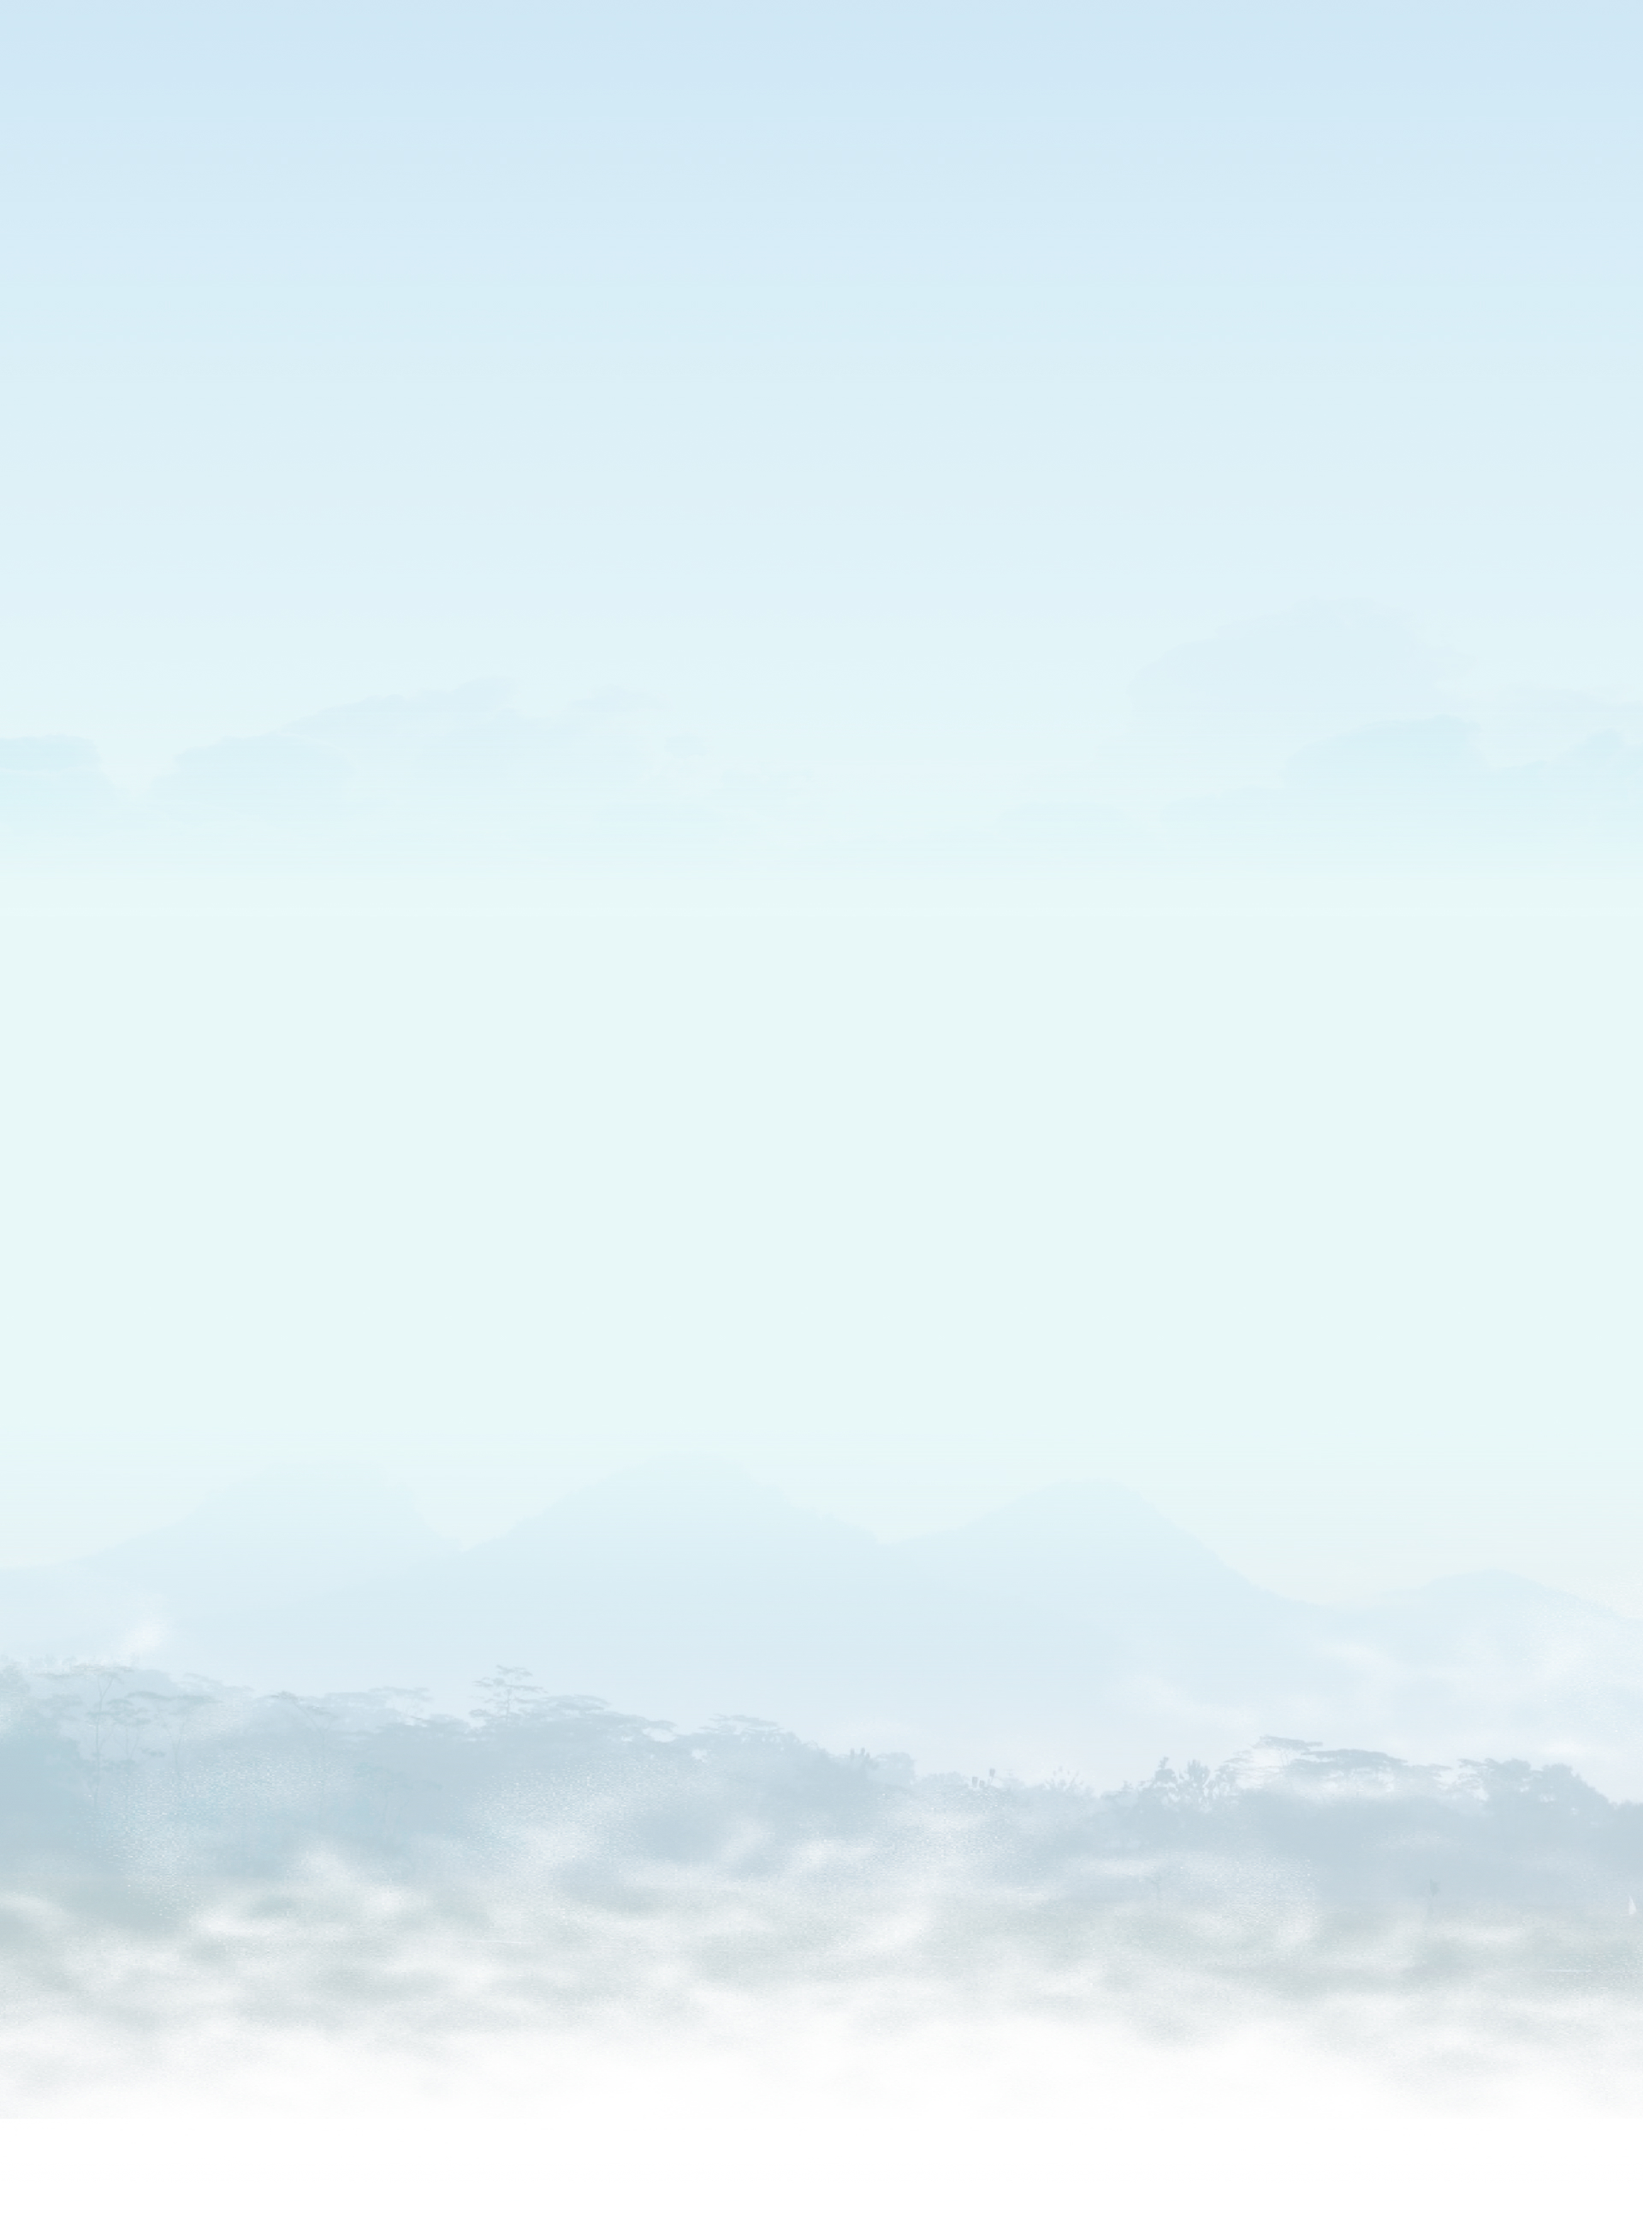
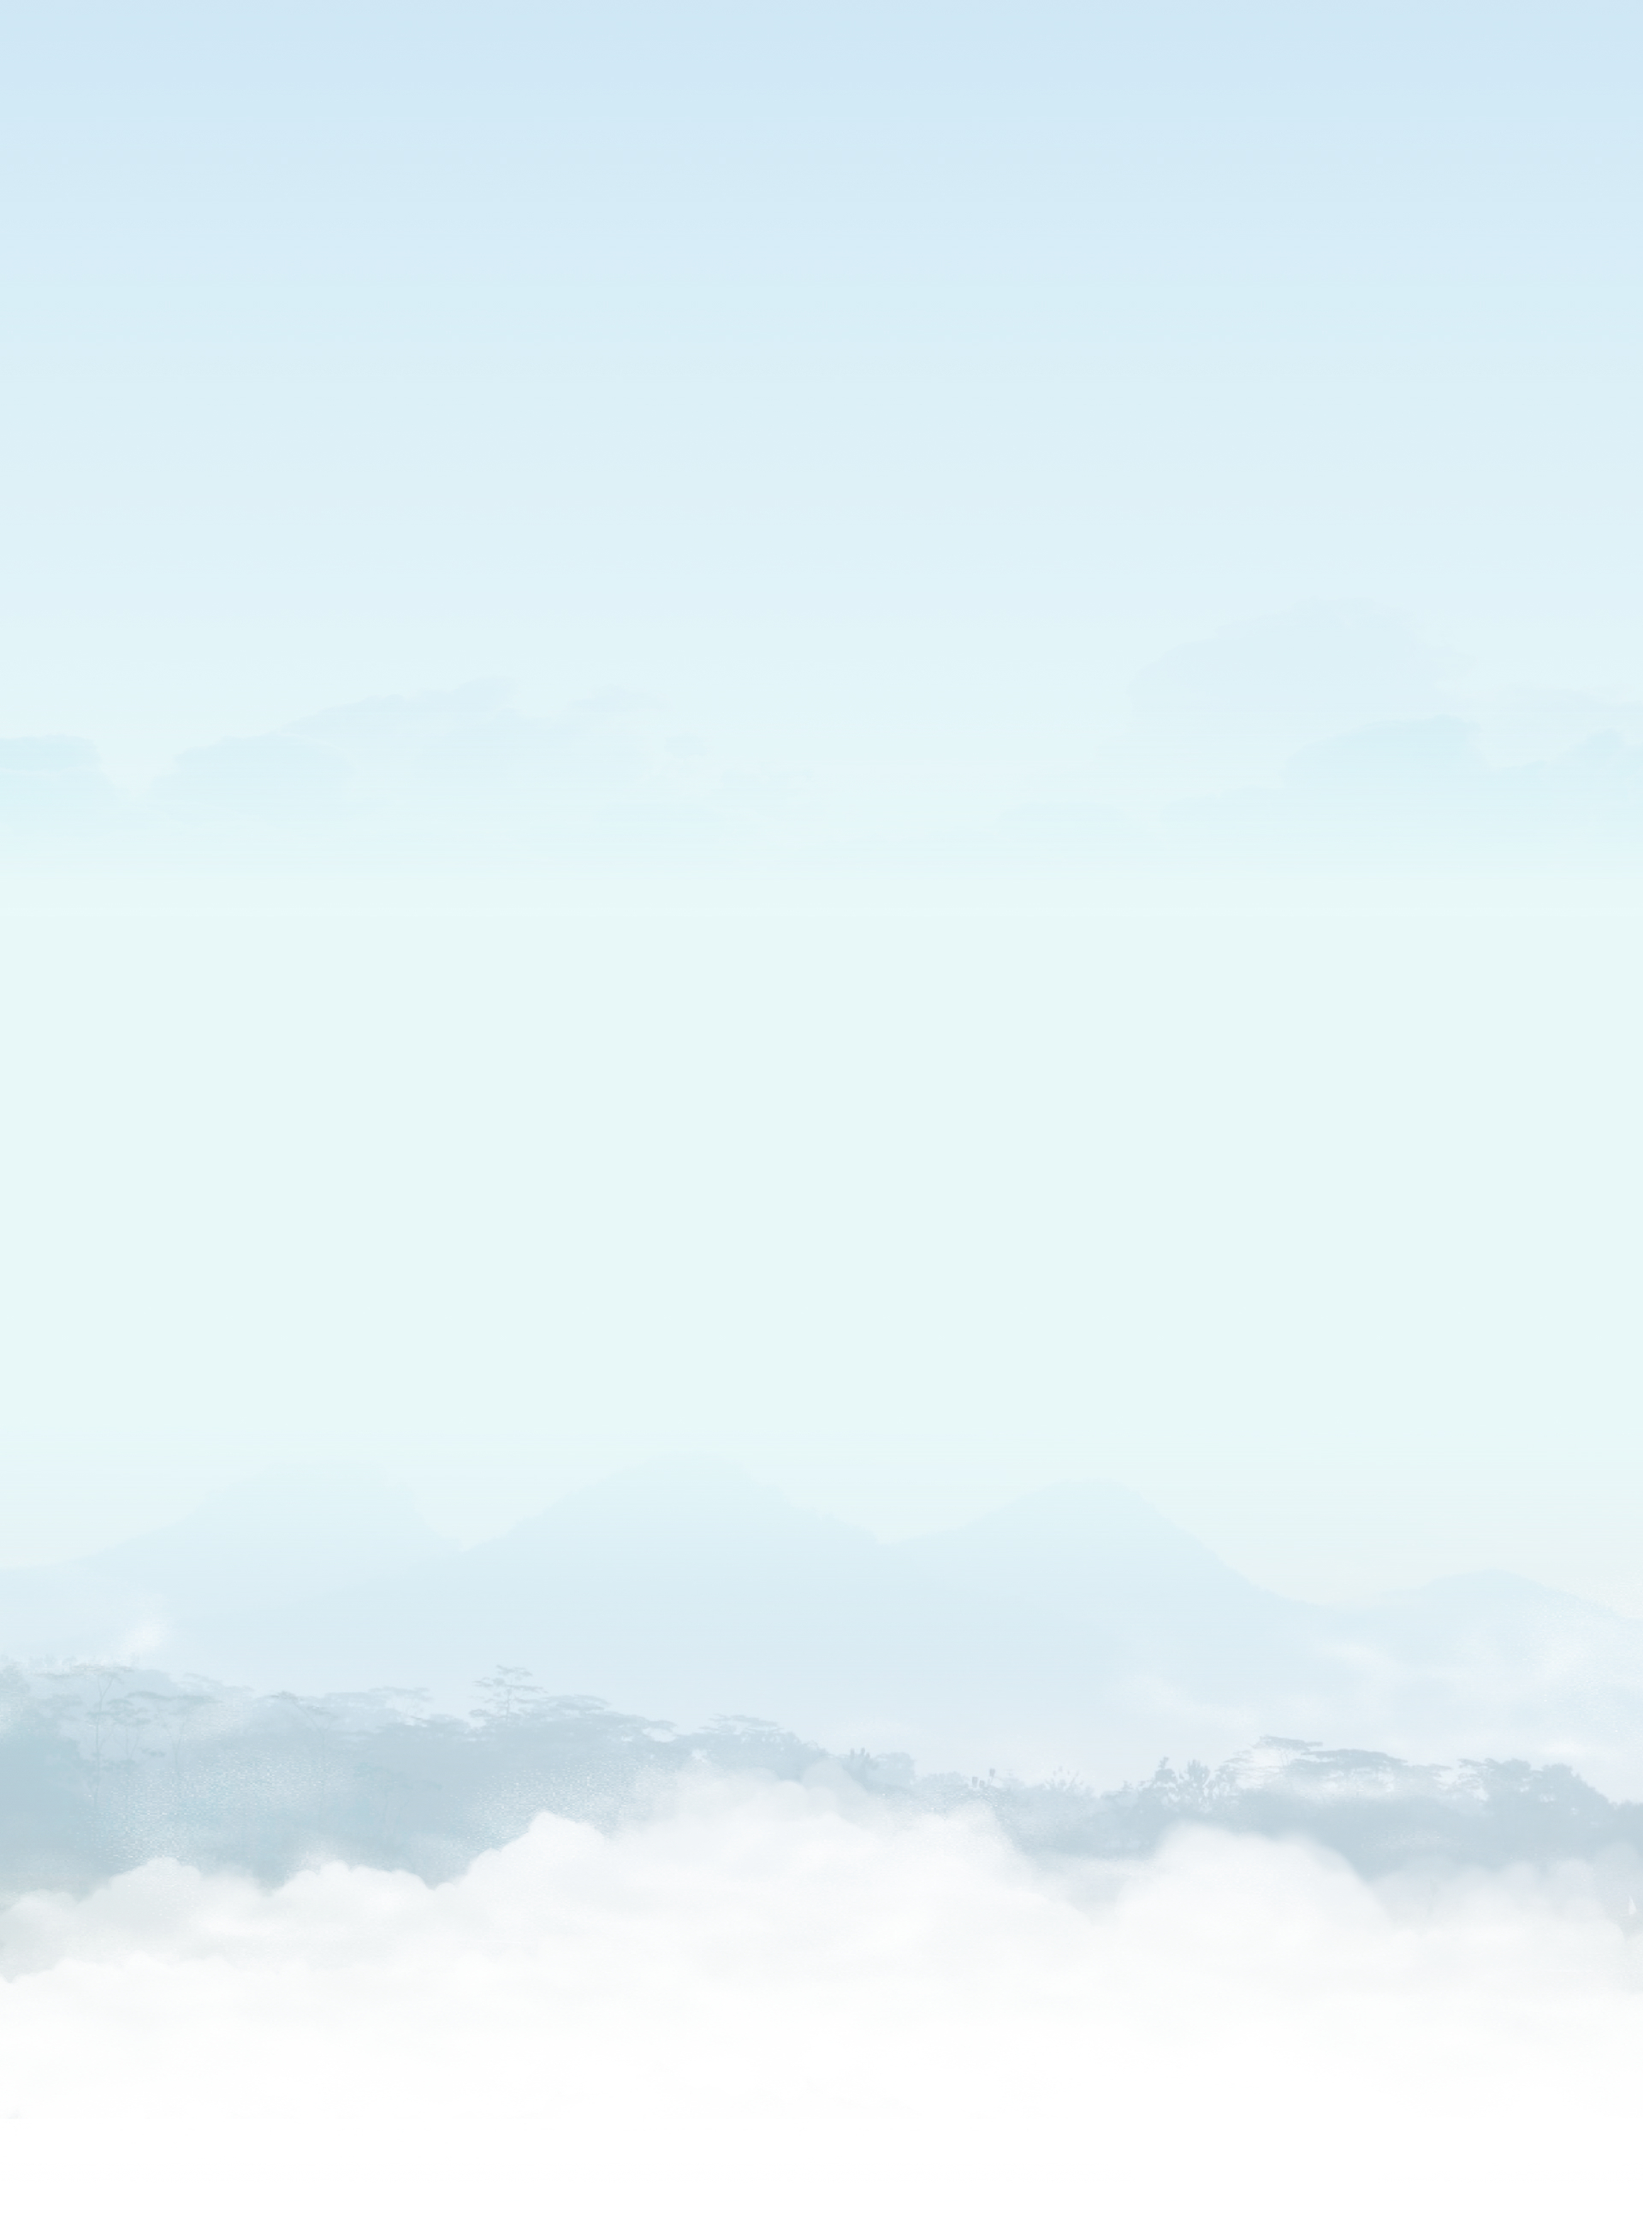
20211109
포폴업로드

Changed region(s): [[0.0, 0.8034, 1.0, 0.927]]

diff --git a/portfolio/index.html b/portfolio/index.html
@@ -12,7 +12,9 @@
     <link href="assets/css/style.css" rel="stylesheet">
 </head>
 <body>
-   <header>
+    <div class="scroll">0</div>
+
+    <header>
         <div class="menu">
             <div class="hem_menu">
             <div class="hem"></div>
@@ -30,18 +32,18 @@
                 </ul>
             </div>
         </div>
-   </header>
-   <!--//header-->
+    </header>
+    <!--//header-->
 
-   <main>
-       <article>
-           <div class="container">
-               <div class="top">
+    <main>
+        <article>
+            <div class="container">
+                <div class="top">
                     <div class="title">
                         <h2>HEOAR</h2>
                         <img src="assets/img/ggs.png" alt="안경"
                         data-0 = "transform: translate(-50%, 0%) rotate(0turn); opacity: 1;"
-                        data-2500 = "transform: translate(-50%, 600%) rotate(-0.5turn); opacity: 0;"
+                        data-2500 = "transform: translate(-50%, 600%) rotate(-0.8turn); opacity: 0;"
                         >
                         <h2>PORTFOLIO</h2>
                     </div>
@@ -49,29 +51,77 @@
                         <p>web design • coding solutions • WEB PUBLISHERS</p>
                     </div>
                     <div class="sb_button">
-                        <div class="button">
-                            <canvas id="tutorial" width="150" height="150"></canvas>
-                        </div>
                         <div class="sb_cont">
                             <span>SCROLL</span>
                             <img src="assets/img/scroll.svg" alt="스크롤">
                         </div>
                     </div>
+                    <div class="cloud">
+                        <img src="assets/img/cloud.png" alt="구름"
+                        data-100 = "transform: translate(-20%, 0%)"
+                        data-1500 = "transform: translate(30%, -10%)"
+                        >
+                    </div>
                 </div>
-           </div>
-       </article>
-   </main>
+            </div>
+        </article>
+    </main>
     <!--//main-->
+
+    <article>
+        <div class="container">
+            <div class="about">
+                <div class="glasses_bg"
+                    data-2500 = "transform: translate(-50%, 0%); opacity: 0;"
+                    data-4000 = "transform: translate(-50%, 300%); opacity: 1;"
+                ></div>
+            </div>
+        </div>
+    </article>
+    <!--//about-->
 
     <script src="https://ajax.googleapis.com/ajax/libs/jquery/1.12.4/jquery.min.js"></script>
     <script src="https://ajax.googleapis.com/ajax/libs/jqueryui/1.12.1/jquery-ui.min.js"></script>
     <script src="https://cdnjs.cloudflare.com/ajax/libs/skrollr/0.6.30/skrollr.min.js"></script>
     <script>
-         var s = skrollr.init();
+            var s = skrollr.init();
 
         $(".hem_menu").click(function(){
             $(".menu").toggleClass("show")
         });
+
+        const contentWrap = $(".about").height();
+        $("body").css("height", contentWrap);
+        const scrollHeight = $(window).height();
+        let lastScrollTop = 0;
+
+        $(window).scroll(function(){
+            let scrollTop = $(window).scrollTop();
+
+
+            //셋 타임아웃 반대
+            clearTimeout($.data(this, "scrollCheck"));
+
+            //움직이지 않았을때
+            $.data(this, "scrollCheck",setTimeout(function(){
+                $(".glasses_bg").removeClass("recoil");
+            }, 100))
+
+            if( scrollTop > lastScrollTop ){
+                $(".glasses_bg").removeClass("top");
+                $(".glasses_bg").addClass("recoil");
+            } else {
+                $(".glasses_bg").addClass("top");
+                $(".glasses_bg").addClass("recoil");
+            }
+            lastScrollTop = scrollTop;
+        });
+
+        window.addEventListener("scroll", ()=>{
+            let scrollTop = document.documentElement.scrollTop || window.pageYOffset || window.scrollY;
+
+            document.querySelector(".scroll").innerHTML = scrollTop;
+        })
     </script>
 </body>
 </html>

diff --git a/portfolio/assets/css/style.css b/portfolio/assets/css/style.css
@@ -11,8 +11,21 @@ body { font-family: 'GmarketSansBold'; background-image: url(../img/topbg.jpg); 
 .container {
     width: 1400px;
     margin: 0 auto;
-
 }
+.scroll {
+    position: fixed;
+    right: 120px; top: 15px;
+    width: 50px; height: 50px;
+    background: rgba(0,0,0,0.3);
+    text-align: center;
+    line-height: 50px;
+    color: #fff;
+    border-radius: 50%;
+    z-index: 10000;
+}
+
+
+
 
 /* 헤더 */
 .menu {
@@ -26,6 +39,9 @@ body { font-family: 'GmarketSansBold'; background-image: url(../img/topbg.jpg); 
     background: #0396A6;
     z-index: 999;
     transition: .8s;
+    background-image: url(../img/ggs02.png);
+    background-repeat: no-repeat;
+    background-position: bottom 100px right 120px;
 }
 header .hem_menu {
     position: relative;
@@ -169,4 +185,36 @@ header .hem_menu {
     width: 20px;
 }
 
+/* 어바웃 */
+.about {
+    margin: 800px auto;
+    height: 200vh;
+    text-align: center;
+    position: relative;
+}
 
+/* 안경 애니메이션 */
+.about .glasses_bg {
+    width: 450px; height: 450px;
+    position: absolute;
+    left: 50%; top: 0;
+    transform: translate(-50%, 0);
+    z-index: -1000;
+    background-image: url(../img/gss.png);
+}
+
+.about .glasses_bg.recoil {
+    animation: recoil 2s steps(7, start) infinite;
+}
+.about .glasses_bg.top.recoil {
+    animation: backrecoil 2s steps(7, start) infinite;
+}
+
+@keyframes recoil {
+    0% {background-position: 0 0;}
+    100% {background-position: 0 3150px;}
+}
+@keyframes backrecoil {
+    0% {background-position: -450px 0;}
+    100% {background-position: -450px -3150px;}
+}
